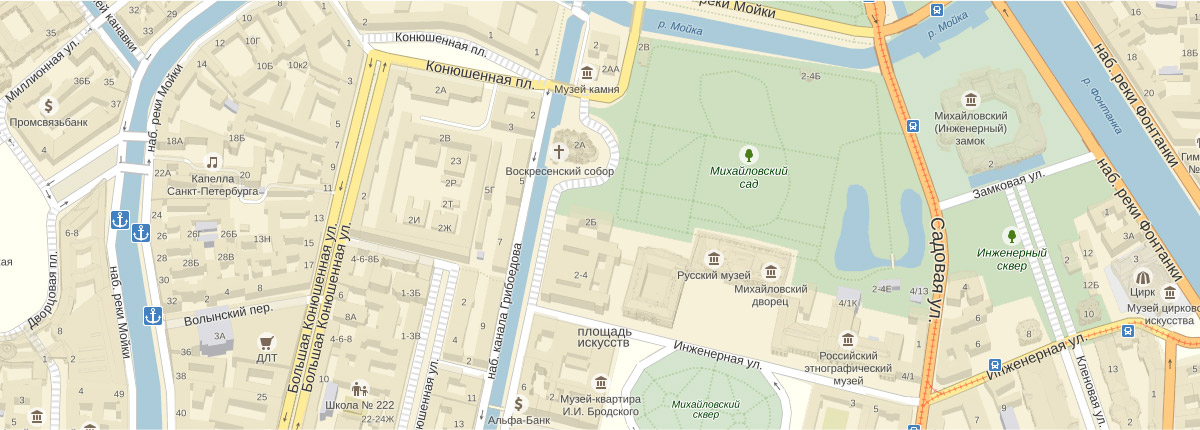
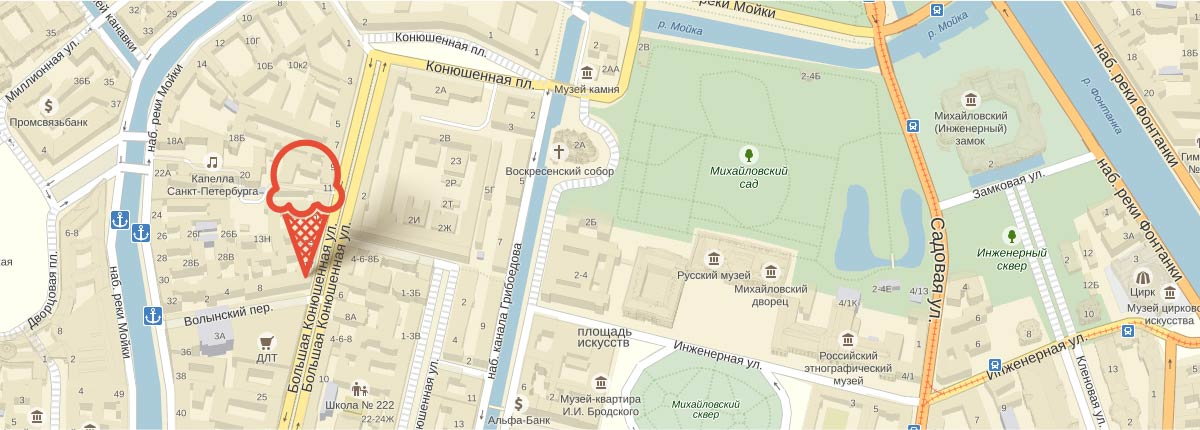
Прогрессивное улучшение и базовая оптимизация
Добавлены ссылки для поддержки работоспособности в отсутствии js; карта
с фоновым изображением; минимизированы и подключены min.css и min.js.
Дополнительно: убрано масштабирование карты при скролле; добалвены
эффекты плавного появления для label при получении инпутом фокуса;
исправлен баг на странице каталога, когда лэйблы для инпутов не
появлялись.

diff --git a/css/style.min.css b/css/style.min.css
@@ -1,0 +1,1 @@
+*{margin:0;padding:0}body,html{min-width:900px}.site-wrapper,body{background-color:#849d8f}body{font-size:16px;line-height:22px;color:#323232;font-weight:400;font-family:'Roboto',Arial,sans-serif}@keyframes bounce{0%{transform:translateY(-2000px)}70%{transform:translateY(30px)}90%{transform:translateY(-10px)}to{transform:translateY(0)}}@keyframes label-popup{0%{transform:translateY(10px);opacity:0}to{transform:translateY(0);opacity:1}}.main-header{width:auto}.site-wrapper{background-repeat:no-repeat;background-position:top center;-webkit-transition:background-image .5s ease,background-color .5s ease;transition:background-image .5s ease,background-color .5s ease}.site-wrapper:after,.site-wrapper:before{content:"";visibility:hidden}.site-wrapper:before{background-image:url(../img/slide2_bg.png)}.site-wrapper:after{background-image:url(../img/slide3_bg.png)}.content-container{max-width:1200px;margin:0 auto}.container{padding-left:2.3%;padding-right:2.3%;margin:0 auto;vertical-align:middle;position:relative}.clearfix::after{content:'';display:table;clear:both}.main-logo{margin-left:-5px;display:inline-block;vertical-align:middle;padding-top:10px;padding-bottom:10px}a img,button{border:none}.ico_cart,.ico_cart-full,.ico_cow,.ico_enter,.ico_favorite,.ico_fb,.ico_hit,.ico_icecream,.ico_instagram,.ico_leaf,.ico_loupe,.ico_therm,.ico_tw,.ico_vk{display:inline-block;vertical-align:baseline;background-image:url(../img/sprite.png);background-repeat:no-repeat}.main-navigation{position:relative;z-index:6;display:inline-block;vertical-align:middle;min-width:390px;margin-left:14px}.mainmenu{list-style:none;padding:0;margin:0;font-weight:700;font-size:16px;line-height:18px}.mainmenu-item{display:inline-block;vertical-align:baseline;position:relative;padding-bottom:10px}.mainmenu-item .active,.mainmenu-item a{color:#fff;display:block;padding:8px 12px}.mainmenu-item a{text-decoration:underline}.mainmenu-item .active,.mainmenu-item:hover>a{background-color:#f8f7f4;color:#323232;text-decoration:none;border-radius:20px}.mainmenu-item a:active{background-color:#ededed;box-shadow:inset 0 7px 2px -5px #696969;border:none}.mainmenu-item .active{background-color:#d07058;border:none}.mainmenu-item:hover .submenu{display:block;margin-top:5px}.submenu{display:none;position:absolute;background-color:#f8f7f4;border-radius:5px;padding:6px 0;list-style:none;left:-8px}.submenu-item a{color:#323232;font-weight:400;font-size:14px;line-height:16px;text-decoration:none;white-space:nowrap;padding:7px 21px;display:block}.news{border-bottom:1px solid #d1d0ce}.news a{padding-top:4px;padding-bottom:10px;font-weight:700}.submenu-item a:not(.active):hover{border:none;background-color:#fbded7;border-radius:0}.submenu-item a:active{background-color:#f6b5a5;box-shadow:none}.submenu-item .active{background-color:#d07058;border-radius:0;padding:10px 22px}.user-block{position:relative;z-index:6;float:right;margin-top:23px;font-size:0}.header-button,.user-block>div{display:inline-block;vertical-align:baseline;font-size:14px;position:relative}.header-button{vertical-align:middle;background-color:rgba(255,255,255,.2);line-height:16px;color:#fff;text-decoration:none;border-radius:20px;padding:8px 16px 8px 46px;margin-right:9px}.header-button::before{content:'';display:block;position:absolute;background:url(../img/sprite.png) no-repeat;top:6px;left:17px}.search{font-size:0;border-radius:50%;padding:0;height:32px;width:32px}.search::before{background-position:0 -53px;height:17px;width:17px;top:7px;left:7px}.cart-full:hover,.login:hover,.search:hover,.user-cart-block:hover>.cart-full,.user-login-block:hover>.login,.user-search-block:hover>.search{background-color:#f8f7f4;color:#323232}.user-cart-block:hover .cart-full+.cart-block,.user-login-block:hover .sign-block,.user-search-block:hover .search-block{display:block;margin-top:5px}.search:hover::before,.user-search-block:hover>.search::before{background-position:-19px -53px}.login::before{background-position:-38px -52px;height:19px;width:21px}.login:hover::before,.user-login-block:hover>.login::before{background-position:-60px -51px}.cart,.cart-full{min-width:55px;margin-right:0}.cart-full::before,.cart::before{background-position:-104px -50px;height:20px;width:21px}.cart-full::before{background-position:-82px -50px}.user-cart-block,.user-login-block,.user-search-block{position:relative;padding-bottom:10px}.search-block,.sign-block{display:none;width:307px;height:40px;right:0;z-index:3}.sign-block{width:243px;height:190px;z-index:2}input,textarea{box-sizing:border-box;width:100%;height:42px;margin-bottom:20px;border-radius:5px 5px 5px 5px;border:1px solid #b2b2b2;font-size:14px;line-height:44px;padding-left:18px}input:hover,textarea:hover{box-shadow:0 0 0 1px rgba(152,152,152,.52);border:1px solid rgba(152,152,152,.52)}input:focus,textarea:focus{box-shadow:0 0 0 1px rgba(46,136,228,.52);border:1px solid rgba(46,136,228,.52);outline:none}.block-input,.block-textarea{display:table;position:relative;width:100%}.block-input input,.block-textarea textarea{display:table-row-group}.block-input label,.block-textarea label{font-size:11px;line-height:13px;color:#5b9ddf;position:absolute;top:-16px;display:none}.block-input input:focus+label,.block-textarea textarea:focus+label{animation-name:label-popup;animation-duration:1s;display:table-header-group}.block-input input:valid+label{color:#999;display:table-header-group}.forms{position:absolute;background-color:#f8f7f4;padding:22px 17px;border-radius:5px}.forms textarea{height:155px;resize:none}.forms-wrapper{width:100%;font-size:0}.forms-wrapper>div{display:inline-block;vertical-align:middle}.forms-wrapper>div:not(:last-child){margin-right:20px}.sign-block-links{width:120px;margin-right:0}.btn,.sign-block-links a{font-size:13px;line-height:24px;color:#323232}.sign-block-links a:active,.sign-block-links a:hover{color:#e84d37}.btn{display:inline-block;vertical-align:baseline;font-size:18px;text-decoration:none;color:#fff;padding:10px 23px;border-radius:30px;background-image:-webkit-linear-gradient(bottom,#e74a35,#f26843);background-image:linear-gradient(0deg,#e74a35,#f26843);background-color:#ec593c;box-shadow:0 2px 2px 0 rgba(172,16,0,.64);text-shadow:0 2px 5px rgba(160,32,11,.52);cursor:pointer}.btn:hover{background-image:-webkit-linear-gradient(bottom,#f58569,#ec6f5e);background-image:linear-gradient(0deg,#f58569,#ec6f5e)}.btn:active{background-image:-webkit-linear-gradient(bottom,#d74632,#e1613e);background-image:linear-gradient(0deg,#d74632,#e1613e);box-shadow:inset 0 7px 1px -5px #942718}.modal-overlay{position:fixed;top:0;left:0;z-index:10;width:100%;height:100%;background:rgba(0,0,0,.5);display:none}.catalog-item:hover .catalog-overlay,.modal-overlay-show{display:block}.feedback{display:none;position:fixed;z-index:12;top:50%;left:50%;margin-left:-222px;margin-top:-200px;width:444px;height:399px}.modal-show{display:block;animation:bounce .6s}.modal-close-btn{position:absolute;top:16px;right:16px;width:22px;height:22px;font-size:0;background-color:transparent;border:0;cursor:pointer}.modal-close-btn::after,.modal-close-btn::before{content:"";position:absolute;top:10px;left:2px;width:19px;height:2px;background-color:#121212;border-radius:1px}.modal-close-btn::before{-webkit-transform:rotate(45deg);transform:rotate(45deg)}.modal-close-btn::after{-webkit-transform:rotate(-45deg);transform:rotate(-45deg)}.feedback-header{margin-bottom:26px;font-size:24px;line-height:28px;font-weight:500}.feedback-button{float:right}.location-address .btn{box-sizing:border-box}.cart-block{display:none;width:510px;min-height:199px;right:0;z-index:5}.cart-block img{width:38px;height:38px;vertical-align:middle;margin-left:15px}.cart-item-name{display:inline-block;vertical-align:text-top;max-width:217px;margin-left:15px;padding-bottom:10px}.del-btn{width:12px;height:12px;display:inline-block;vertical-align:middle;font-size:0;background:url(../img/del.svg) no-repeat top center;cursor:pointer}.user-cart{width:100%;border-collapse:collapse;margin-bottom:20px}.user-cart td{padding:10px 7px;vertical-align:text-top;font-size:13px;line-height:16px}.user-cart td:first-child{padding-left:0;min-width:305px;padding-right:0}.user-cart .total{text-align:right;font-weight:700;font-size:15px;line-height:18px;border-top:1px solid #cacac7}.cart-block .btn{float:right}.page-header-container{display:block;margin-bottom:2px}.breadcrumb{float:left;list-style:none;margin-top:6px;color:#fff}.breadcrumb-item{display:inline-block;vertical-align:baseline;list-style-type:none;color:#fff;font-size:14px;line-height:16px}.breadcrumb-item:not(:last-child)::after{content:'»'}.breadcrumb-item a{color:#fff;font:inherit}.breadcrumb-item a:active,.breadcrumb-item a:hover,.footer a:active,.footer a:hover{color:#ffbc9e}.carusel,.main-info{position:relative;color:#fff}.main-info{margin-top:-16px;font-size:14px;line-height:16px;font-weight:700;z-index:1;float:right;width:170px;text-align:right}.main-info span{font-size:22px;line-height:24px;display:block;margin-top:5px}.carusel{padding-top:305px;text-align:center;margin-bottom:40px}.carusel-item,.filter-item-checkbox input,.filter-item-radio input,input[name=carusel-input]{display:none}.carusel-item-promo{width:700px;margin:0 auto 30px;line-height:60px;font-weight:700;font-size:60px}.carusel .btn,.slider-controls label{display:inline-block;vertical-align:top}.carusel .btn{text-align:center;font-size:32px;line-height:44px;font-weight:700;width:237px;border-radius:40px}.slider-controls{position:absolute;bottom:22px;left:0;z-index:20;font-size:0}.slider-controls label{width:17px;height:17px;margin-right:8px;background-color:transparent;border:2px solid #fff;border-radius:50%;cursor:pointer}input[id=carusel-slide1]:checked~.site-wrapper label[for=carusel-slide1],input[id=carusel-slide2]:checked~.site-wrapper label[for=carusel-slide2],input[id=carusel-slide3]:checked~.site-wrapper label[for=carusel-slide3]{background:#fff}input[id=carusel-slide1]:not(:checked)~.site-wrapper label[for=carusel-slide1]:hover,input[id=carusel-slide2]:not(:checked)~.site-wrapper label[for=carusel-slide2]:hover,input[id=carusel-slide3]:not(:checked)~.site-wrapper label[for=carusel-slide3]:hover{background:#b2c1b7}.filter-item-checkbox input[name^=filter-]:checked+label::after,.filter-item-radio input[name=fats]:checked+label::after,input[id=carusel-slide1]:checked~.site-wrapper .slide1,input[id=carusel-slide2]:checked~.site-wrapper .slide2,input[id=carusel-slide3]:checked~.site-wrapper .slide3{display:block}input[id=carusel-slide1]:checked~.site-wrapper{background-image:url(../img/slide1_bg.png);background-color:#849d8f}input[id=carusel-slide2]:checked~.site-wrapper{background-image:url(../img/slide2_bg.png);background-color:#8996a6}input[id=carusel-slide3]:checked~.site-wrapper{background-image:url(../img/slide3_bg.png);background-color:#9d8b84}.banners{position:relative;width:100%;display:block;z-index:2;margin-bottom:40px}.banners-container{width:48.8%;box-sizing:border-box;margin-right:2.2%;height:100%;float:left;min-height:229px;border-radius:18px;padding:16px 26px 23px 17px;color:#fff;font-weight:700;position:relative}.banners-container:last-child{float:right;margin-right:0}.raspberry{background:#9b2c4b url(../img/raspberry.png) no-repeat}.chocolate{background:#573218 url(../img/chocolate.png) no-repeat}.banners-header{font-size:35px;line-height:41px}.banners-description{font-size:18px;line-height:22px;margin-top:14px}.banners-container .btn{position:absolute;bottom:26px;right:18px}.filters{width:860px;min-height:140px;margin-top:26px;margin-bottom:28px}.filters-group{margin-bottom:14px}.filters-item{margin-right:12px}.filter-item-checkbox,.filter-item-radio,.filters-item{display:inline-block;vertical-align:top}.filter-item-checkbox{margin-right:12px}.filter-item-radio{margin-right:15px}.filters-item:last-child{margin-right:0}.filter-item-checkbox:last-child{margin-right:5px}select[name=sortlist]{border:none;width:194px;border-radius:18px;padding:7px 12px;font:inherit;color:#fff;-moz-appearance:none;-webkit-appearance:none;appearance:none;background:#aabcb2 url(../img/white-marker.png) no-repeat 170px center;cursor:pointer}select::-ms-expand{display:none}select[name=sortlist]:hover{background:#fff url(../img/black-marker.png) no-repeat 170px center;color:#323232}.filters-item-slider{background-color:#aabcb2;border-radius:18px;position:relative;height:36px;width:216px}.slider,.toggle{position:absolute}.slider{background:#d1dad3;width:188px;height:2px;top:16px;left:16px}.toggle{width:20px;height:20px;background-color:#fff;border-radius:18px;box-shadow:0 1px 3px 0 rgba(0,0,0,.1);left:0;top:8px;cursor:pointer}.left{left:35px}.right{left:132px}.range{background-color:#f8f7f4;width:112px;left:40px}.filter-item-radio:last-child{margin-right:0}.filters-item-header{color:#fff;font-size:14px;line-height:16px;padding-left:16px;padding-bottom:6px}.filters-item-group{background-color:#aabcb2;border-radius:18px;padding:9px 15px;font-size:16px;line-height:18px;color:#fff}.filter-item-checkbox label,.filter-item-radio label{position:relative;font:inherit;padding-left:30px;display:inline-block;vertical-align:middle}.filter-item-radio label::before{content:'';position:absolute;top:-4px;left:0;box-sizing:border-box;border:1px solid #fff;border-radius:50%;width:22px;height:22px}.filter-item-radio input[name=fats]:not(checked)+label::after{content:'';display:none;width:10px;height:10px;top:1px;left:5px;position:absolute;background:#fff;border:1px solid #fff;border-radius:50%}.filter-item-checkbox input[name^=filter-]:disabled+label,.filter-item-radio input[name=fats]:disabled+label{opacity:.4}.filter-item-checkbox input[name^=filter-]:not(:disabled)+label:hover::before,.filter-item-radio input[name=fats]:not(:disabled)+label:hover::before{border:2px solid #fff;cursor:pointer}.filter-item-checkbox:not(:last-child){margin-right:20px}.filter-item-checkbox label::before{content:'';position:absolute;border:1px solid #fff;border-radius:4px;width:22px;height:21px;box-sizing:border-box;top:-2px;left:0}.filter-item-checkbox input[name^=filter-]:not(checked)+label::after{content:'';display:none;width:14px;height:10px;top:4px;left:3px;position:absolute;background:url(../img/sprite.png) no-repeat;background-position:-135px -94px}.filter-btn{display:inline-block;box-sizing:border-box;height:36px;vertical-align:middle;padding:5px 28px;font:inherit;color:#fff;background-color:#a6b7ae;border:2px solid #fff;border-radius:18px;margin-top:22px;margin-left:-4px}.filter-btn:hover{background-color:#fff;color:#323232;cursor:pointer}.filter-btn:active{background-color:#eaeaea;border:none;box-shadow:inset 0 7px 2px -5px #696969;outline:none}.catalog{text-align:center;font-size:0}.catalog-item{display:inline-block;position:relative;vertical-align:top;width:23.2%;margin-right:2.2%;margin-bottom:40px;font-size:16px}.index .catalog-item::before{content:'';background:url(../img/sprite.png) no-repeat -156px -50px;position:absolute;width:61px;height:61px;top:0;left:0;z-index:3}.catalog-item:nth-child(4n){margin-right:0}.catalog-item-image{position:relative;z-index:2}.catalog-item img{width:100%;height:100%}.catalog-overlay{display:none;position:absolute;z-index:1;width:109%;height:128%;text-align:center;top:-8px;left:-4.4%;background:rgba(255,255,255,.3);border-radius:7px}.catalog-overlay>div{position:absolute;display:block;width:100%;bottom:0;padding-bottom:10px}.catalog-overlay>div .btn{display:block;z-index:5;margin:11px auto 0;width:182px;padding-left:10px;padding-right:10px;white-space:nowrap}.catalog-item:not(:hover){z-index:0}.catalog-item-price{position:absolute;z-index:4;font-size:45px;line-height:45px;color:#fff;font-weight:700;bottom:16px;left:0;text-shadow:1px 1px 3px rgba(49,50,53,.5)}.catalog-item-price>span:first-child::after{content:'';display:inline-block;vertical-align:middle;width:35px;height:45px;background:url(../img/ruble.svg) no-repeat;background-position:3px 3px}.units{font-size:30px;line-height:45px}.catalog-item-description{font-size:16px;line-height:22px;color:#fff;font-weight:400;text-decoration:underline;margin-top:8px;position:relative;z-index:4;cursor:pointer}.catalog-paginator{width:190px;float:right;margin-top:42px;margin-bottom:30px;white-space:nowrap}.catalog-paginator .current{background-color:#fff;color:#323232}.catalog-paginator .disabled{opacity:.2;cursor:default}.catalog-paginator .next,.catalog-paginator .prev{display:inline-block;background:url(../img/sprite.png) no-repeat;background-position:-137px -74px;width:8px;height:14px;margin:-2px 4px}.prev{-webkit-transform:rotate(180deg);transform:rotate(180deg)}.catalog-paginator a{font-size:16px;line-height:18px;color:#fff;text-decoration:none;display:inline-block;vertical-align:baseline;width:25px;height:25px;box-sizing:border-box;padding:4px 7px;border-radius:50%;font-weight:500}.catalog-paginator a:not(.current):not(.prev):not(.next):hover{background-color:#9db1a5}.features{padding:22px 20px 10px 22px;margin-bottom:40px;margin-top:-2px;background:#efe1c7 url(../img/wafer.jpg);border-radius:18px}.features-header{font-size:24px;line-height:30px;font-weight:500}.features-container{display:block;margin-top:9px;margin-bottom:10px}.features-item{float:left;width:48.8%;margin-right:2.2%;position:relative;padding-left:55px;padding-top:15px;box-sizing:border-box}.features-item::before{content:'';height:49px;width:49px;position:absolute;left:0;top:0;background:url(../img/sprite.png) no-repeat}.icecream::before{background-position:-51px 0}.leaf::before{background-position:0 0}.cow::before{background-position:-102px 0}.therm::before{background-position:-153px 0}.features-item:nth-child(2n){float:right;margin-right:0}.blog{position:relative;width:100%;display:block;z-index:2;margin-bottom:40px}.blog>div{width:48.8%;height:100%;min-height:220px;float:left;margin-right:2.2%;border-radius:18px;box-sizing:border-box}.blog>div:last-child{margin-right:0;float:right}.blog-news{background:#fff url(../img/strawberry.png) no-repeat right center;padding:23px 20px}.blog-news-header{font-weight:700;margin-bottom:5px}.blog-news-article-header{font-size:24px;line-height:30px;font-weight:700;width:290px;display:block;color:#323232}.blog-news-article-header:hover{color:#e84d37}.blog-subscribe-bg{padding:6px;background:#f8f7f4 url(../img/post.png)}.blog-subscribe,.blog-subscribe form{box-sizing:border-box;padding:28px 20px}.blog-subscribe{background:#f8f7f4;border-radius:18px;min-height:208px;position:relative}.blog-subscribe form{position:absolute;bottom:-10px;left:0;width:100%}.subscribe-email{padding-right:150px}.blog-subscribe button{float:right;margin-right:0}.blog-subscribe-description{color:#5a5a5a}.location{position:relative}.map{background:url(../img/map.jpg) no-repeat center center;min-height:430px;margin:0 auto;z-index:1}.location-address{background-color:#fefefe;border-radius:18px;width:252px;min-height:237px;position:absolute;top:63px;right:27px;padding:28px 25px;z-index:2}.location-address span{font-size:14px;line-height:20px;display:block;width:176px}.location-address b{display:block;font-size:18px;line-height:24px;font-weight:700;padding-top:2px;padding-bottom:3px}.location-address div{margin-top:16px;margin-bottom:24px}.location .btn{width:252px;text-align:center}.footer-wrapper{width:26.7%;float:left;min-height:100px}.center{width:46.6%}.footer-social{display:inline-block;vertical-align:middle;margin-top:22px}.social-btn{font-size:0;position:relative;margin-right:46px}.social-bth:last-child{margin-right:0}.social-btn::before{content:'';position:absolute;top:0;left:0;background:url(../img/sprite.png) no-repeat top center;height:31px;width:31px;border:2px solid #c2cec7;border-radius:50%;opacity:.8}.social-btn:hover::before{opacity:1}.social-btn:active::before{box-shadow:inset 0 7px 2px -5px #696969}.social-btn-tw::before{background-position:-100px -76px}.social-btn-inst::before{background-position:-67px -75px}.social-btn-fb::before{background-position:0 -75px}.social-btn-vk::before{background-position:-33px -75px}.footer-info{display:block;width:350px;font-size:13px;vertical-align:top;margin:32px auto 0}.footer-info-list{list-style:none;display:inline-block;vertical-align:baseline;margin-right:0}.footer-info-list li{padding-left:26px}.favorite{font-weight:700;position:relative}.favorite::before{content:'';position:absolute;background:url(../img/sprite.png) no-repeat;background-position:-127px -56px;height:13px;width:17px;left:0;top:3px}.footer{border-top:1px solid rgba(255,255,255,.3)}.footer-copyright,.footer-info a{font-size:13px;line-height:18px;color:#fff}.footer-copyright{width:189px;float:right;font-size:12px;margin-top:18px;white-space:nowrap}.minlink{color:#fff}.page-header{font-size:35px;line-height:41px;color:#fff;font-weight:700;margin-top:0}

diff --git a/css/style.css b/css/style.css
@@ -19,6 +19,32 @@ body {
   background-color: #849d8f;
 }
 
+@keyframes bounce {
+  0%   {
+    transform: translateY(-2000px);
+  }
+  70%  {
+    transform: translateY(30px);
+  }
+  90%  {
+    transform: translateY(-10px);
+  }
+  100% {
+    transform: translateY(0);
+  }
+}
+
+@keyframes label-popup {
+  0%    {
+    transform: translateY(10px);
+    opacity: 0;
+  }
+  100%  {
+    transform: translateY(0);
+    opacity: 1;
+  }
+}
+
 .main-header {
   width: auto;
 }
@@ -44,7 +70,6 @@ body {
 .site-wrapper:after {
   background-image: url("../img/slide3_bg.png");
 }
-
 
 .content-container {
   max-width: 1200px;
@@ -84,7 +109,6 @@ a img {
   background-repeat: no-repeat
 }
 
-
 .main-navigation {
   position: relative;
   z-index:6;
@@ -116,7 +140,6 @@ a img {
   display: block;
   padding: 8px 12px;
 }
-
 
 .mainmenu-item:hover>a {
   background-color: #f8f7f4;
@@ -294,12 +317,10 @@ a img {
   width: 21px;
 }
 
-
 .user-search-block, .user-login-block, .user-cart-block {
   position: relative;
   padding-bottom: 10px;
 }
-
 
 .search-block {
   display: none;
@@ -332,16 +353,13 @@ input, textarea {
 input:hover, textarea:hover {
   box-shadow: 0 0 0 1px rgba(152,152,152,0.52);
   border: 1px solid rgba(152,152,152,0.52);
-  /*border: none;*/
 }
 
 input:focus, textarea:focus {
   box-shadow: 0 0 0 1px rgba(46,136,228,0.52);
   border: 1px solid rgba(46,136,228,0.52);
   outline: none;
-  /*border: none;*/
 }
-
 
 .block-input, .block-textarea {
   display: table;
@@ -365,6 +383,8 @@ input:focus, textarea:focus {
  
 .block-input input:focus + label,
 .block-textarea textarea:focus + label {
+  animation-name: label-popup;
+  animation-duration: 1s;
   display: table-header-group;
 }
 
@@ -445,23 +465,6 @@ input:focus, textarea:focus {
 
 button {
   border: none;
-}
-
-/* Всплывающая форма */
-
-@keyframes bounce {
-  0%   {
-    transform: translateY(-2000px);
-  }
-  70%  {
-    transform: translateY(30px);
-  }
-  90%  {
-    transform: translateY(-10px);
-  }
-  100% {
-    transform: translateY(0);
-  }
 }
 
 .modal-overlay {
@@ -600,7 +603,6 @@ button {
   padding-right: 0px;
 }
 
-
 .user-cart .total {
   text-align: right;
   font-weight: bold;
@@ -612,7 +614,6 @@ button {
 .cart-block .btn {
   float: right;
 }
-
 
 .page-header-container {
    display: block; 
@@ -849,12 +850,12 @@ select[name='sortlist'] {
   -webkit-appearance:none; 
   appearance:none;
   background: #aabcb2 url('../img/white-marker.png') no-repeat 170px center;
+  cursor: pointer;
 }
 
 select::-ms-expand {
     display: none;
 }
-
 
 select[name='sortlist']:hover {
   background: #fff url('../img/black-marker.png') no-repeat 170px center;
@@ -908,7 +909,6 @@ select[name='sortlist']:hover {
   margin-right: 0px;
 }
 
-
 .filters-item-header {
   color: #fff;
   font-size: 14px;
@@ -930,16 +930,12 @@ select[name='sortlist']:hover {
   display: none;
 }
 
-.filter-item-radio input+label, .filter-item-checkbox input+label {
-  display: inline-block;
-  vertical-align: middle;
-}
-
-
 .filter-item-radio label, .filter-item-checkbox label {
   position: relative;
   font: inherit;
   padding-left: 30px;
+  display: inline-block;
+  vertical-align: middle;
 }
 
 .filter-item-radio label::before {
@@ -977,12 +973,12 @@ select[name='sortlist']:hover {
 
 .filter-item-radio input[name='fats']:not(:disabled)+label:hover::before {
   border: 2px solid #fff;
+  cursor: pointer;
 }
 
 .filter-item-checkbox:not(:last-child) {
   margin-right: 20px;
 }
-
 
 .filter-item-checkbox label::before {
   content: '';
@@ -996,12 +992,10 @@ select[name='sortlist']:hover {
   left: 0;
 }
 
-
 .filter-item-checkbox input[name^='filter-']:not(checked)+label::after {
   content: '';
   display: none;
   width: 14px;
-
   height: 10px;
   top: 4px;
   left: 3px;
@@ -1020,8 +1014,8 @@ select[name='sortlist']:hover {
 
 .filter-item-checkbox input[name^='filter-']:not(:disabled)+label:hover::before {
   border: 2px solid #fff;
+  cursor: pointer;
 }
-
 
 .filter-btn {
   display: inline-block;
@@ -1041,6 +1035,7 @@ select[name='sortlist']:hover {
 .filter-btn:hover {
   background-color: #fff;
   color: #323232;
+  cursor: pointer;
 }
 
 .filter-btn:active {
@@ -1123,13 +1118,11 @@ select[name='sortlist']:hover {
 
 .catalog-item:hover .catalog-overlay {
   display: block;
-  
 }
 
 .catalog-item:not(:hover) {
   z-index:0;
 }
-
 
 .catalog-item-price {
   position: absolute;
@@ -1170,7 +1163,6 @@ select[name='sortlist']:hover {
   cursor: pointer;
 }
 
-
 .catalog-paginator {
   width: 190px;
   float: right;
@@ -1178,7 +1170,6 @@ select[name='sortlist']:hover {
   margin-bottom: 30px;
   white-space: nowrap;
 }
-
 
 .catalog-paginator .current {
   background-color: #fff;
@@ -1378,16 +1369,6 @@ select[name='sortlist']:hover {
   z-index: 1;
 }
 
-.location::before {
-  content: '';
-  position: absolute;
-  left: 266px;
-  top: 138px;
-  width: 218px;
-  height: 142px;
-  background:url('../img/marker.png') no-repeat;
-}
-
 .location-address {
   background-color: #fefefe;
   border-radius: 18px;
@@ -1559,4 +1540,3 @@ select[name='sortlist']:hover {
   font-weight: bold;
   margin-top: 0;
 }
-

diff --git a/index.html b/index.html
@@ -5,7 +5,7 @@
     <title>Глейси</title>
     <link href="https://fonts.googleapis.com/css?family=Roboto:400,500,700&amp;subset=cyrillic,latin-ext" rel="stylesheet">
     <link href="css/normalize.css" rel="stylesheet">
-    <link href="css/style.css" rel="stylesheet">
+    <link href="css/style.min.css" rel="stylesheet">
     <script src="https://api-maps.yandex.ru/2.1/?lang=ru_RU" type="text/javascript"></script>
   </head>
   <body>
@@ -188,7 +188,7 @@
               <div class="blog-subscribe-bg">
                 <div class="blog-subscribe">
                   <p class="blog-subscribe-description">Подпишитесь на нашу сладкую рассылку и будете всегда в курсе всего самого вкусного, что у нас происходит. Обещаем не спамить и не слать всякой не нужной ерунды. Честно =) </p>
-                  <form name="subscribe" method="post" action="/">
+                  <form name="subscribe" method="post" action="/subscribe">
                     <button type="submit" class="btn">Отправить</button>
                     <div class=" subscribe-email">
                       <div class="block-input">
@@ -203,7 +203,7 @@
             <div class="feedback forms">
               <button class="modal-close-btn" type="button" title="Закрыть">Закрыть</button>
               <div class="feedback-header">Мы обязательно вам ответим!</div>
-              <form name="feedback" action="/" method="post">
+              <form name="feedback" action="/feedback" method="post">
                 <div class="block-input">
                   <input type="text" name="username" id="username" placeholder="Как вас зовут?" required>
                   <label for="username">Как вас зовут?</label>
@@ -234,7 +234,7 @@
             <b>8 812 450-25-25</b>
             <span>(с 10 до 20 ежедневно)</span>
           </div>
-          <a class="feedback-show btn" href="#">Форма обратной связи</a>
+          <a class="feedback-show btn" href="/feedback">Форма обратной связи</a>
         </div>
       </div>
       <div class="map" id="map"></div>        
@@ -285,6 +285,6 @@
       </div>
     </div>
     <div class="modal-overlay"></div>
-    <script src="js/script.js" type="text/javascript"></script>
+    <script src="js/script.min.js" type="text/javascript"></script>
   </body>
 </html>

diff --git a/catalog.html b/catalog.html
@@ -49,8 +49,8 @@
               <a class="header-button search" href="#">Поиск</a>
               <div class="search-block forms">
                 <div class="block-input">
+                  <input type="search" placeholder="Что ищем?" name="search-input" id="search-input" required>
                   <label for="search-input">Что ищем?</label>
-                  <input type="search" placeholder="Что ищем?" name="search-input" id="search-input">
                 </div>
               </div>
             </div>
@@ -58,18 +58,18 @@
               <a class="header-button login" href="#">Вход</a>
               <div class="sign-block forms">
                 <div class="block-input">
+                  <input type="email" name="sing-email-input" id="sing-email-input" placeholder="Электронная почта" required>
                   <label for="sing-email-input">Электронная почта</label>
-                  <input type="email" name="sing-email-input" id="sing-email-input" placeholder="Электронная почта">
                 </div>
                 <div class="block-input">
+                  <input type="password" name="sign-password-input" id="sign-password-input" placeholder="Пароль" required>
                   <label for="sign-password-input">Пароль</label>
-                  <input type="password" name="sign-password-input" id="sign-password-input" placeholder="Пароль">
                 </div>
                 <div class="forms-wrapper">
                   <div class="sign-block-btn">
                     <a class="btn" href="#">Войти</a>
                   </div>
-                  <div class="sing-block-links">
+                  <div class="sign-block-links">
                     <a class="sign-block-link" href="#">Забыли пароль?</a>
                     <a class="sign-block-link" href="#">Новая регистрация</a>
                   </div>

diff --git a/js/script.min.js b/js/script.min.js
@@ -1,0 +1,1 @@
+function init(){myMap=new ymaps.Map("map",{center:[59.9393,30.3293],zoom:16,controls:["smallMapDefaultSet"]}),myPlacemark=new ymaps.Placemark([59.938631,30.323055],{hintContent:"Gllacy Shop",balloonContent:"Магазин Глейси"},{iconLayout:"default#image",iconImageHref:"img/marker.png",iconImageSize:[218,142],iconImageOffset:[-45,-140]}),myMap.geoObjects.add(myPlacemark),myMap.behaviors.disable(["scrollZoom"])}var feedback_btn=document.querySelector(".feedback-show"),popup=document.querySelector(".feedback"),close_btn=popup.querySelector(".modal-close-btn"),modal_overlay=document.querySelector(".modal-overlay"),form=popup.querySelector("form"),username=popup.querySelector("[name=username]"),useremail=popup.querySelector("[name=useremail]"),usermsg=popup.querySelector("[name=usermessage]");if(localStorage)var storage_username=localStorage.getItem("username"),storage_useremail=localStorage.getItem("useremail");feedback_btn.addEventListener("click",function(a){a.preventDefault(),modal_overlay.classList.add("modal-overlay-show"),popup.classList.add("modal-show"),storage_username&&storage_useremail?(username.value=storage_username,useremail.value=storage_useremail,usermsg.focus()):username.focus()}),close_btn.addEventListener("click",function(a){a.preventDefault(),popup.classList.remove("modal-show"),modal_overlay.classList.remove("modal-overlay-show")}),form.addEventListener("submit",function(a){username.value&&useremail.value?localStorage&&(localStorage.setItem("username",username.value),localStorage.setItem("useremail",useremail.value)):a.preventDefault()}),window.addEventListener("keydown",function(a){27===a.keyCode&&popup.classList.contains("modal-show")&&(popup.classList.remove("modal-show"),modal_overlay.classList.remove("modal-overlay-show"))}),ymaps.ready(init);var myMap,myPlacemark;

diff --git a/js/script.js b/js/script.js
@@ -80,4 +80,6 @@ function init(){
     });
     
     myMap.geoObjects.add(myPlacemark);
+    myMap.behaviors.disable(['scrollZoom']);
 }
+
